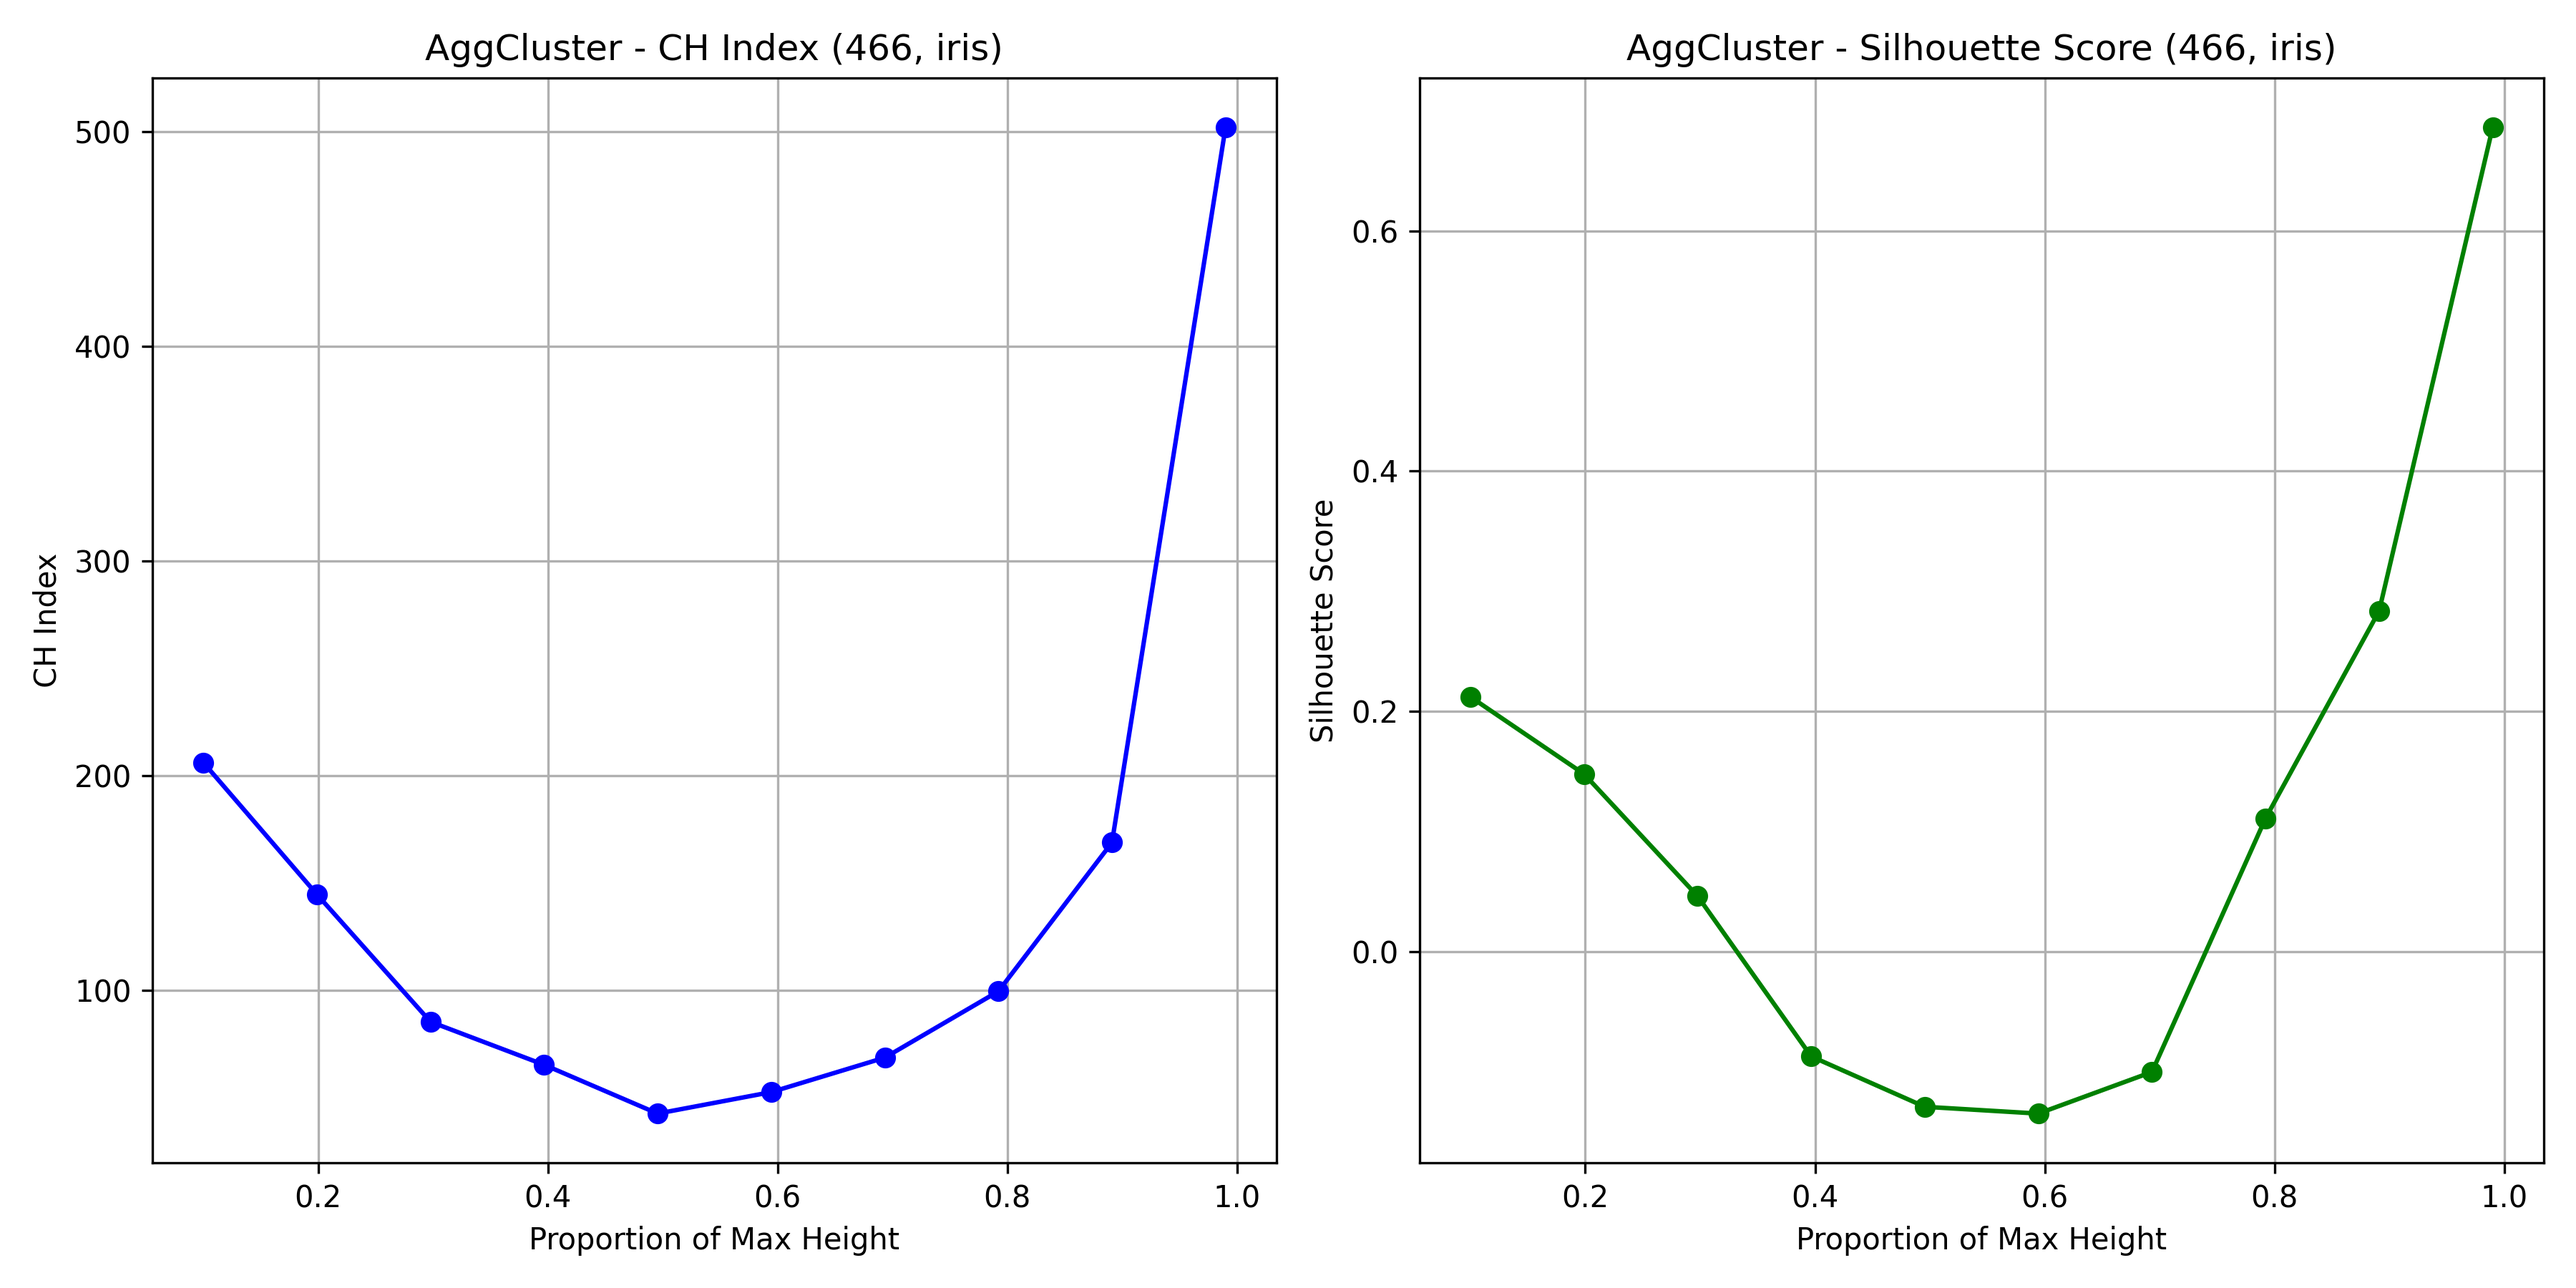
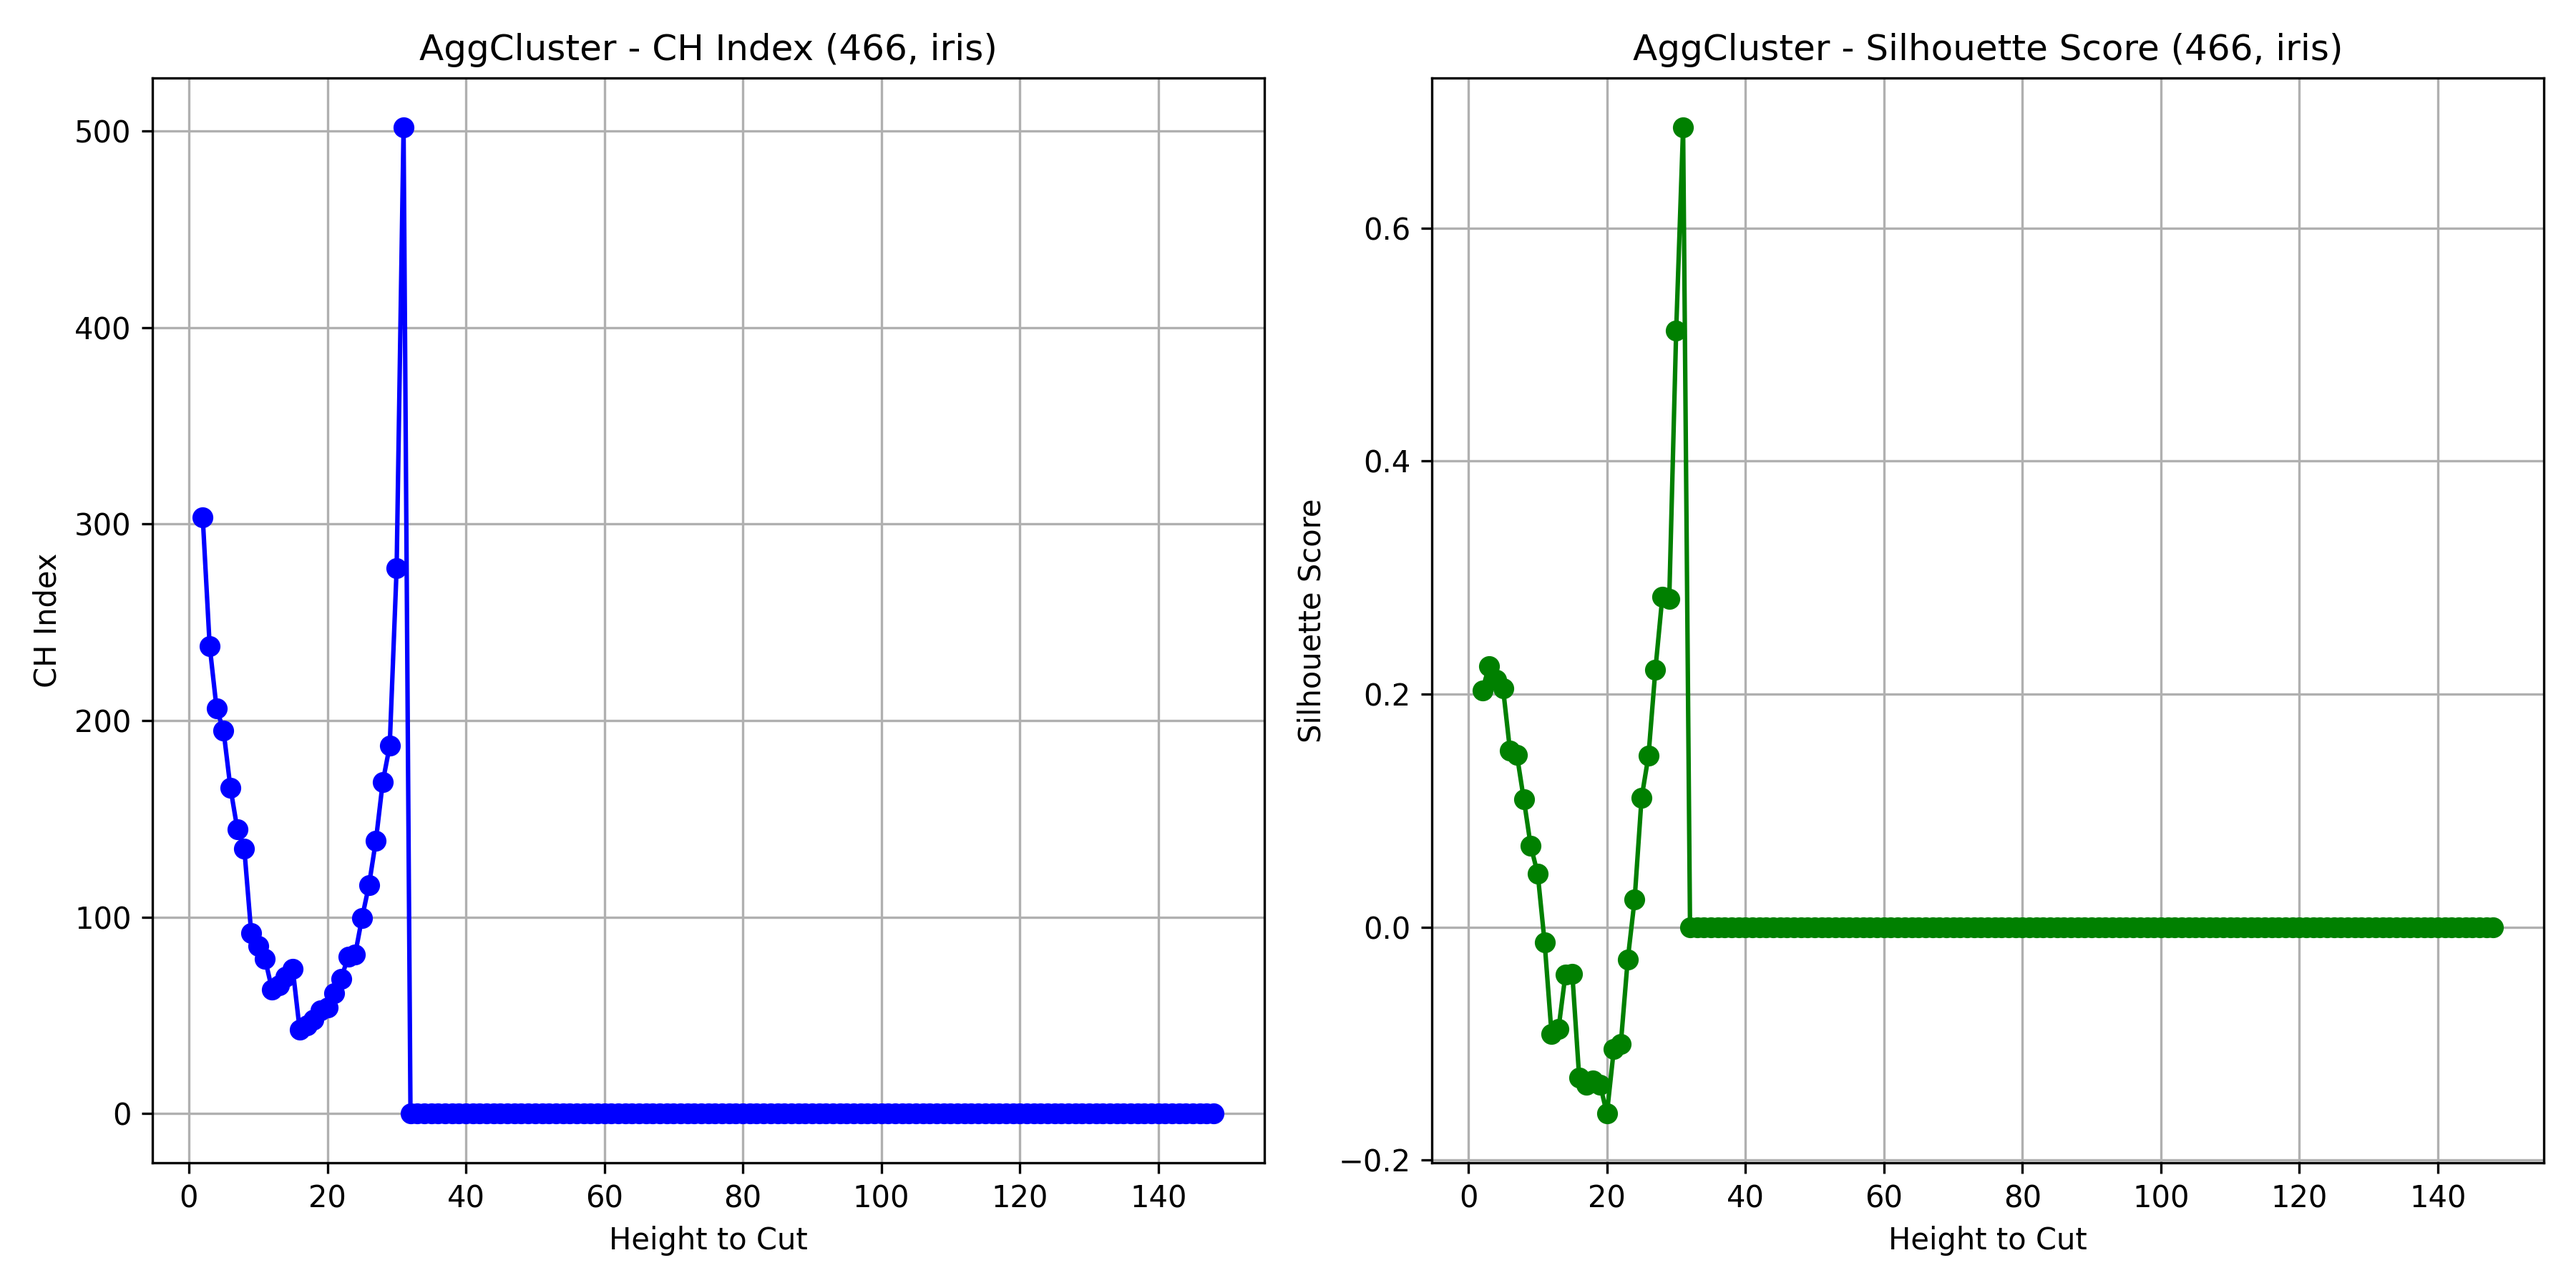
refactor agglomerative clustering implementation and enhance metrics calculation

diff --git a/lab4/hclustering.py b/lab4/hclustering.py
@@ -43,12 +43,17 @@ class AgglomerativeClustering:
         # initialize each point as a cluster (indices of X)
         clusters = [[i] for i in range(X.shape[0])]
         nodes = [{"type": "leaf", "height": 0, "data": X[i].tolist()} for i in range(X.shape[0])]
-  
+
+        dists = {}
         while len(clusters) > 1:
             min_dist = np.inf
             for i in range(len(clusters)):
                 for j in range(i+1, len(clusters)):
-                    dist = self.cluster_distance(clusters[i], clusters[j], X)
+                    itup, jtup = tuple(clusters[i]), tuple(clusters[j])
+                    if (itup, jtup) not in dists:
+                        dists[(itup, jtup)] = self.cluster_distance(clusters[i], clusters[j], X)
+                        dists[(jtup, itup)] = dists[(itup, jtup)]
+                    dist = dists[(itup, jtup)]
                     if dist < min_dist:
                         min_dist = dist
                         min_i, min_j = i, j
@@ -91,7 +96,7 @@ class AgglomerativeClustering:
         self.cut = ret
         return ret
     
-    def get_clusters(self, threshold):
+    def get_clusters(self, threshold, X_ref):
         '''
         Get the clusters at the specified threshold.
         If threshold < 1, it is treated as a proportion of the maximum height.
@@ -105,6 +110,14 @@ class AgglomerativeClustering:
             for leaf in leaves:
                 X.append(leaf['data'])
                 y.append(i)
+        # reorder y based on X_ref
+        y_new = []
+        for ref in X_ref:
+            # idx of ref in X
+            x_idx = np.where(np.all(X == ref, axis=1))[0][0]
+            y_new.append(y[x_idx])
+        y = y_new
+        X = X_ref
         return np.array(X), np.array(y)
         
     def get_leaves(self, node):
@@ -115,11 +128,11 @@ class AgglomerativeClustering:
             leaves += self.get_leaves(child)
         return leaves
     
-    def plot_clusters(self, threshold):
+    def plot_clusters(self, threshold, X_ref):
         '''
         Plot the clusters and centroids in 2D (using PCA if needed)
         '''
-        X, y = self.get_clusters(threshold)
+        X, y = self.get_clusters(threshold, X_ref)
         # If the data is more than 2D, apply PCA to reduce it to 2D
         if X.shape[1] > 2:
             # encode categorical columns as integers
@@ -141,6 +154,38 @@ class AgglomerativeClustering:
         plt.legend(loc='best')
 
         plt.show()
+
+    def metrics(self, X, y, labels=None):
+        '''
+        For each cluster,
+        1. Number of points in the cluster.
+        2. Coordinates of its centroid.
+        3. Maximum, minimum, and the average distance from a point to cluster centroid. 
+        4. Sum of Squared Errors (SSE) for the points in the cluster.
+        '''
+        points = np.array([len(X[y == i]) for i in np.unique(y)])
+        centroids = np.array([np.mean(X[y == i], axis=0) for i in np.unique(y)])
+        dists = [[self.metric(X[j], centroids[i]) for j in np.where(y == i)[0]] for i in np.unique(y)]
+        max_dists = np.array([np.max(d) for d in dists])
+        min_dists = np.array([np.min(d) for d in dists])
+        avg_dists = np.array([np.mean(d) for d in dists])
+        sse = np.array([np.sum(np.array(d)**2) for d in dists])
+        purity = []
+        if labels is not None:
+            for i in np.unique(y):
+                cluster_labels = labels[y == i]
+                unique_labels, counts = np.unique(cluster_labels, return_counts=True)
+                most_common_label = unique_labels[np.argmax(counts)]
+                purity.append(max(counts)/sum(counts))
+        return {
+            "points": points,
+            "centroids": centroids,
+            "max_dists": max_dists,
+            "min_dists": min_dists,
+            "avg_dists": avg_dists,
+            "sse": sse,
+            "purity": purity
+        }
 
     def score(self, X, y):
         silhouette = silhouette_score(X, y) if len(self.cut) > 1 else 0
@@ -196,7 +241,7 @@ if __name__ == "__main__":
     ap.add_argument("--plot", help="Plot the clusters", action="store_true")
     args = ap.parse_args()
 
-    df = pd.read_csv(args.filename)
+    df = pd.read_csv(args.filename, index_col=False)
 
     # filter by column name
     X = df.select_dtypes(include=[np.number])
@@ -216,11 +261,26 @@ if __name__ == "__main__":
 
     if args.threshold is not None:
         print("Cutting the dendrogram at threshold", args.threshold)
-        X, y = model.get_clusters(args.threshold)
+        Xout, cluster = model.get_clusters(args.threshold, X)
         print(model.tree["height"])
         if args.plot:
-            model.plot_clusters(args.threshold)
-        print(model.score(X, y))
+            model.plot_clusters(args.threshold, X)
+        labels = y if y.shape[1] == 1 else None
+        metrics = model.metrics(Xout, cluster, labels)
+        print("Metrics:")
+        for i in range(len(metrics["points"])):
+            print(f"Cluster {i}:")
+            print(f"Number of points: {metrics['points'][i]}")
+            print(f"Center: {', '.join(map(str, metrics['centroids'][i]))}")
+            print(f"Max Dist. to Center: {metrics['max_dists'][i]} Min Dist. to Center: {metrics['min_dists'][i]} Avg Dist. to Center: {metrics['avg_dists'][i]}")
+            print(f"SSE: {metrics['sse'][i]}")
+            if labels is not None:
+                print(f"Purity: {metrics['purity'][i]}")
+                Xout = np.concatenate((Xout, labels), axis=1)
+            for point in Xout[cluster == i]:
+                print(", ".join(map(str, point)))
+            print()
+
     if args.json:
         with open(args.out, "w") as f:
             json.dump(model.tree, f, indent=2)

diff --git a/lab4/elbow.py b/lab4/elbow.py
@@ -5,11 +5,11 @@ from sklearn.preprocessing import OrdinalEncoder
 import matplotlib.pyplot as plt
 from sklearn.metrics import calinski_harabasz_score, silhouette_score
 from preprocessor import preprocess_data
-from hclustering import AgglomerativeClustering
+from hclustering import AgglomerativeClustering as AgglomerativeClustering466
 from dbscan import DBScan
 from kmeans import Kmeans
 from itertools import product
-from sklearn.cluster import KMeans, DBSCAN
+from sklearn.cluster import KMeans, DBSCAN, AgglomerativeClustering
 from tqdm import tqdm
 import os
 
@@ -117,14 +117,14 @@ def hcluster_elbow(hyps, X, filename='', method='466'):
 
     for thresh in tqdm(threshs):
         if method == 'sklearn':
-            model = KMeans(n_clusters=k)
+            model = AgglomerativeClustering(linkage='single', n_clusters=thresh)   
         elif method == '466':
-            model = AgglomerativeClustering()
+            model = AgglomerativeClustering466()
 
         model.fit(X)
-        X, y = model.get_clusters(thresh)
 
         if method == "466":
+            X, y = model.get_clusters(thresh, X)
             scores['ch_index'].append(model.score(X, y)['ch_index'])
             scores['silhouette_score'].append(model.score(X, y)['silhouette_score'])
         elif method == "sklearn":
@@ -138,7 +138,7 @@ def hcluster_elbow(hyps, X, filename='', method='466'):
     # Plot CH Index
     plt.subplot(1, 2, 1)
     plt.plot(threshs, scores['ch_index'], marker='o', color='b', label='CH Index')
-    plt.xlabel('Proportion of Max Height')
+    plt.xlabel('Height to Cut')
     plt.ylabel('CH Index')
     plt.title(f'AggCluster - CH Index ({method}, {filename})')
     plt.grid(True)
@@ -146,7 +146,7 @@ def hcluster_elbow(hyps, X, filename='', method='466'):
     # Plot Silhouette Score
     plt.subplot(1, 2, 2)
     plt.plot(threshs, scores['silhouette_score'], marker='o', color='g', label='Silhouette Score')
-    plt.xlabel('Proportion of Max Height')
+    plt.xlabel('Height to Cut')
     plt.ylabel('Silhouette Score')
     plt.title(f'AggCluster - Silhouette Score ({method}, {filename})')
     plt.grid(True)
@@ -180,20 +180,18 @@ if __name__ == "__main__":
     # Generate hyperparam ranges
     kmeans_hyps = {'k': range(2, 10)}
     dbscan_hyps = {'epsilon': np.linspace(0.1, 1, 20), 'minpts': range(3, 15)}
-    hcluster_hyps = {'threshold': np.linspace(0.1, .99, 10)}
-    
     fname = os.path.splitext(os.path.basename(csv))[0]
-    # kmeans_elbow(kmeans_hyps, X, y, filename=fname, method='466')
-    # kmeans_elbow(kmeans_hyps, X, y, filename=fname, method='sklearn')
-    # dbscan_elbow(dbscan_hyps, X, y, filename=fname, method='466')
-    # dbscan_elbow(dbscan_hyps, X, y, filename=fname,method='sklearn')
+    kmeans_elbow(kmeans_hyps, X, y, filename=fname, method='466')
+    kmeans_elbow(kmeans_hyps, X, y, filename=fname, method='sklearn')
+    dbscan_elbow(dbscan_hyps, X, y, filename=fname, method='466')
+    dbscan_elbow(dbscan_hyps, X, y, filename=fname,method='sklearn')
 
     df = pd.read_csv(csv)
     X = df.select_dtypes(include=[np.number])
     y = df.select_dtypes(include=[object])
     X = X.to_numpy()
-
+    hcluster_hyps = {'threshold': range(2, len(X)-1)}
     hcluster_elbow(hcluster_hyps, X, filename=fname, method='466')
-    # hcluster_elbow(hcluster_hyps, X, filename=fname, method='sklearn')
+    hcluster_elbow(hcluster_hyps, X, filename=fname, method='sklearn')
 
 
